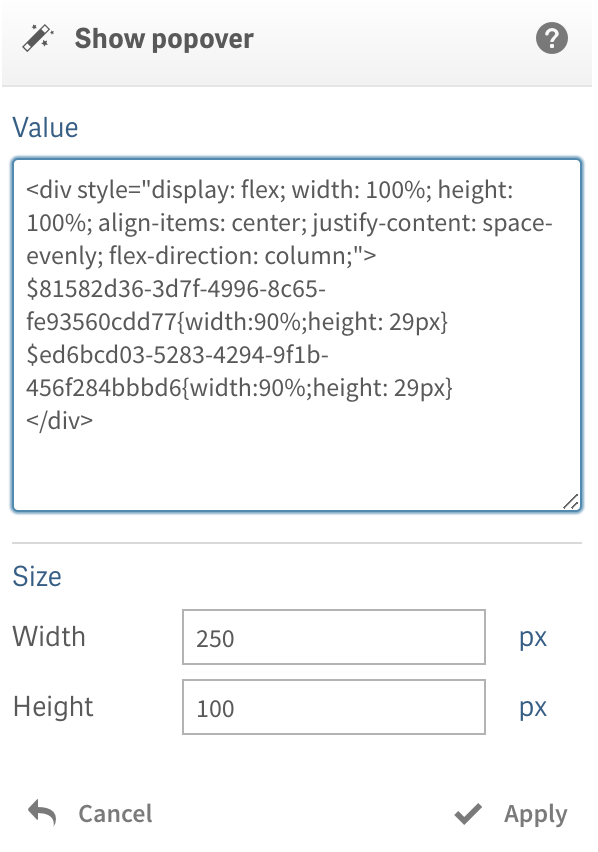
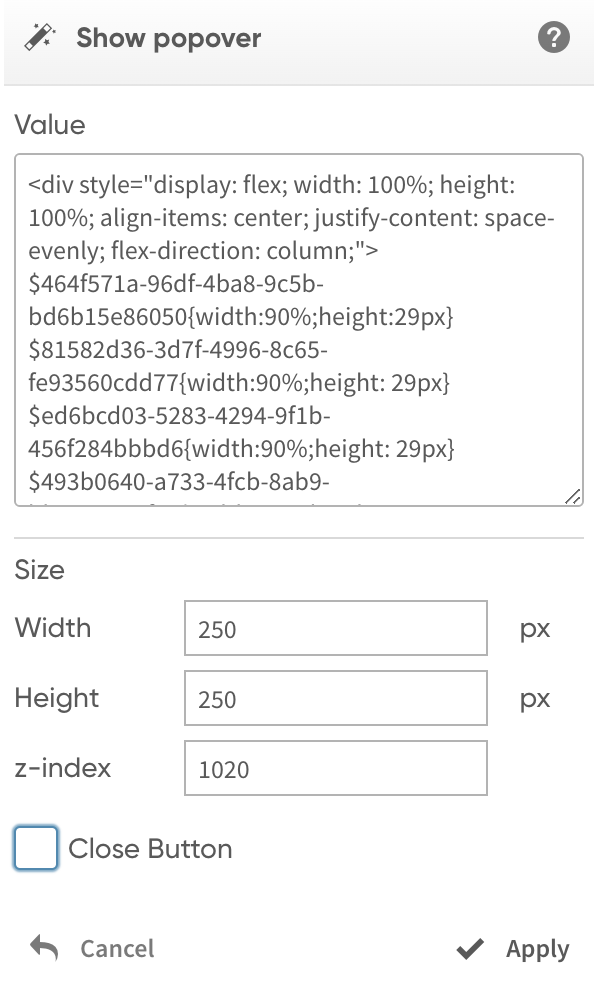
GITBOOK-129: change request with no subject merged in GitBook

diff --git a/actions/show-popover.md b/actions/show-popover.md
@@ -27,3 +27,5 @@ $9bc03224-f072-439f-b0de-3014860d4f8a{width:100%;height: 40px}
 ```
 
 The "**Width**" and "**Height**" parameters allow the developer to set the size of the popup in pixels.
+
+The "z-index" allows to customize z-index value of the&#x20;
